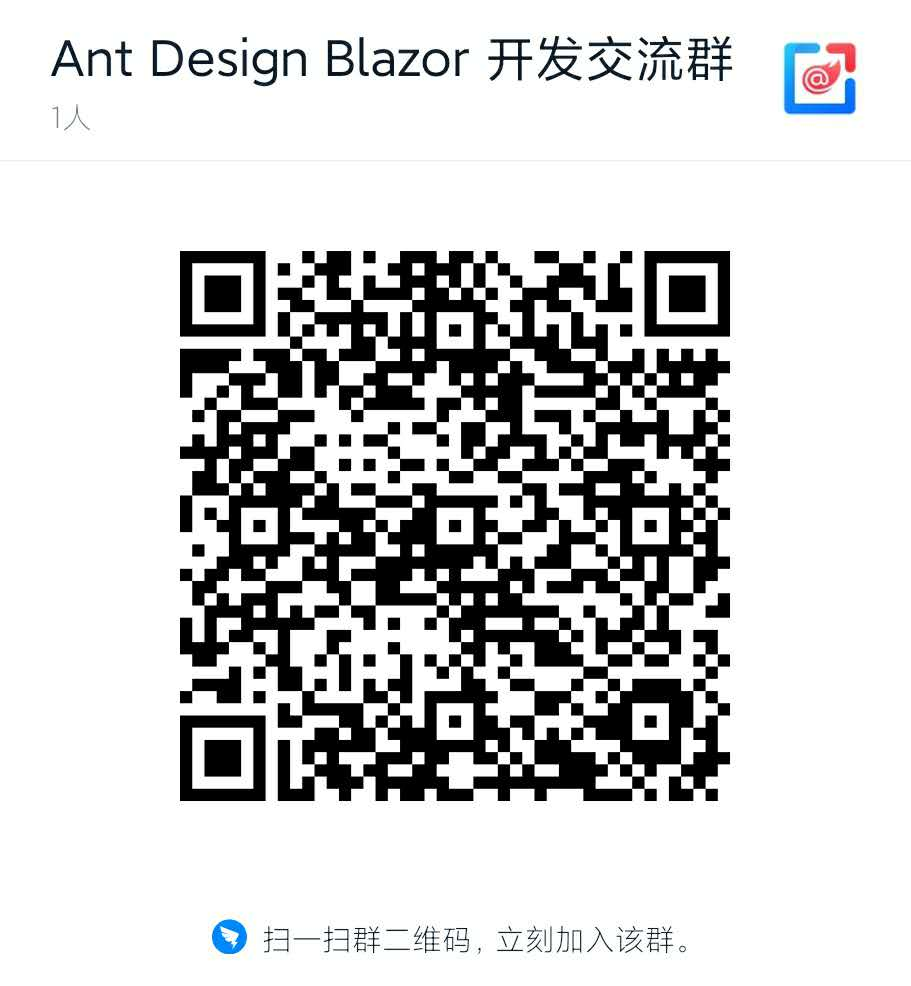
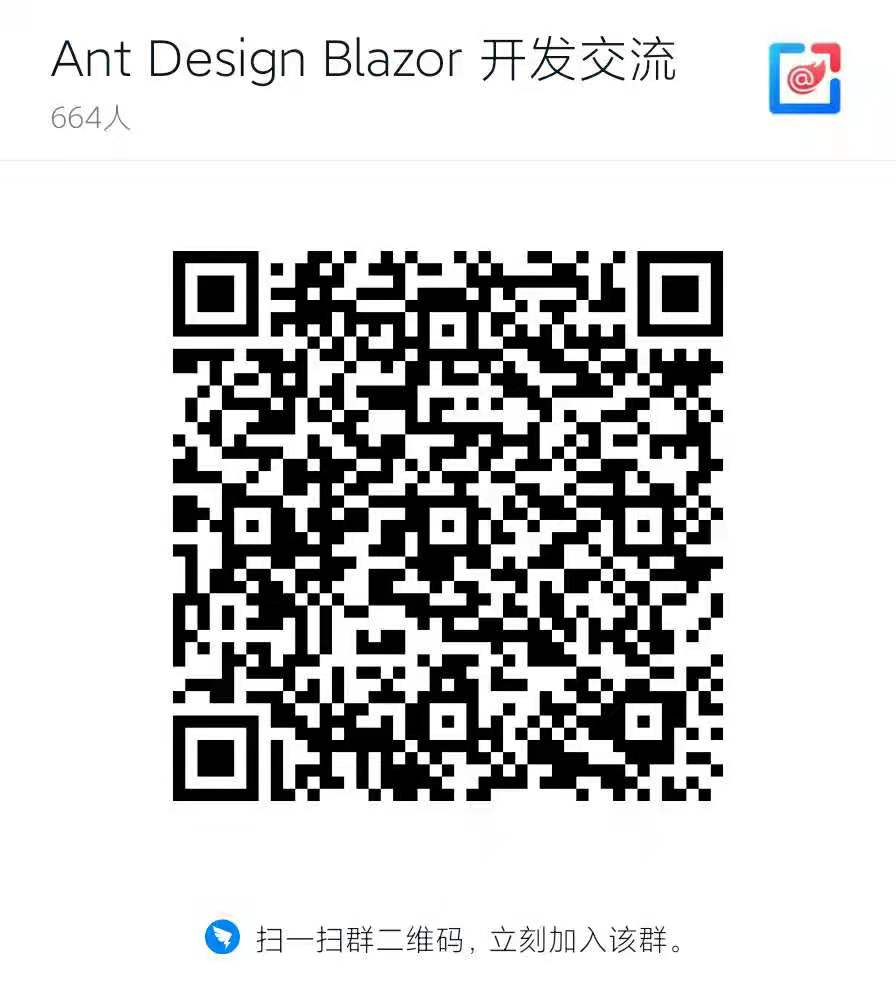
docs: fix dingtalk's broken links (#1330)

diff --git a/README.md b/README.md
@@ -17,7 +17,7 @@ A set of enterprise-class UI components based on Ant Design and Blazor.
 [![codecov](https://img.shields.io/codecov/c/github/ant-design-blazor/ant-design-blazor/master.svg?style=flat-square)](https://codecov.io/gh/ant-design-blazor/ant-design-blazor)
 [![AntDesign](https://img.shields.io/badge/License-MIT-blue?style=flat-square)](https://github.com/ant-design-blazor/ant-design-blazor/blob/master/LICENSE)
 [![Slack Group](https://img.shields.io/badge/Slack-AntBlazor-blue.svg?style=flat-square&logo=slack)](https://join.slack.com/t/AntBlazor/shared_invite/zt-etfaf1ww-AEHRU41B5YYKij7SlHqajA)
[2 lines of base64/hex data omitted]
 [![Discord Server](https://img.shields.io/discord/753358910341251182?color=%237289DA&label=AntBlazor&logo=discord&logoColor=white&style=flat-square)](https://discord.com/invite/jqu3Xeq)
 
 </div>
@@ -212,11 +212,11 @@ If you encounter any problems in the process, feel free to ask for help via foll
 
 - [![Discord Server](https://img.shields.io/discord/753358910341251182?color=%237289DA&label=AntBlazor&logo=discord&logoColor=white&style=flat-square)](https://discord.com/invite/jqu3Xeq)
 
[2 lines of base64/hex data omitted]
 
   <details>
     <summary>Scan QR Code with DingTalk</summary>
-    <img src="https://cdn.jsdelivr.net/gh/ant-design-blazor/ant-design-blazor/  docs/assets/dingtalk.jpg" width="300">
+    <img src="https://cdn.jsdelivr.net/gh/ant-design-blazor/ant-design-blazor/docs/assets/dingtalk.jpg" width="300">
   </details>
 
 ## Code of Conduct

diff --git a/README-zh_CN.md b/README-zh_CN.md
@@ -17,7 +17,7 @@
 [![codecov](https://img.shields.io/codecov/c/github/ant-design-blazor/ant-design-blazor/master.svg?style=flat-square)](https://codecov.io/gh/ant-design-blazor/ant-design-blazor)
 [![AntDesign](https://img.shields.io/badge/License-MIT-blue?style=flat-square)](https://github.com/ant-design-blazor/ant-design-blazor/blob/master/LICENSE)
 [![Slack Group](https://img.shields.io/badge/Slack-AntBlazor-blue.svg?style=flat-square&logo=slack)](https://join.slack.com/t/AntBlazor/shared_invite/zt-etfaf1ww-AEHRU41B5YYKij7SlHqajA)
[2 lines of base64/hex data omitted]
 [![Discord Server](https://img.shields.io/discord/753358910341251182?color=%237289DA&label=AntBlazor&logo=discord&logoColor=white&style=flat-square)](https://discord.com/invite/jqu3Xeq)
 
 </div>
@@ -206,7 +206,7 @@ WebAssembly 静态托管页面示例
 
 - [![Discord Server](https://img.shields.io/discord/753358910341251182?color=%237289DA&label=AntBlazor&logo=discord&logoColor=white&style=flat-square)](https://discord.com/invite/jqu3Xeq) (英文)
 
[2 lines of base64/hex data omitted]
 
   <img src="https://cdn.jsdelivr.net/gh/ant-design-blazor/ant-design-blazor/docs/assets/dingtalk.jpg" width="200">
 

diff --git a/docs/introduce.zh-CN.md b/docs/introduce.zh-CN.md
@@ -178,12 +178,10 @@ title: Ant Design of Blazor
 如果您在使用的过程中碰到问题，可以通过以下途径寻求帮助，同时我们也鼓励资深用户通过下面的途径给新人提供帮助。
 
 - [![Slack 群](https://img.shields.io/badge/Slack-AntBlazor-blue.svg?style=flat-square&logo=slack)](https://join.slack.com/t/AntBlazor/shared_invite/zt-etfaf1ww-AEHRU41B5YYKij7SlHqajA) (英文)
[2 lines of base64/hex data omitted]
 
-<details>
-  <summary>点击扫描钉钉二维码</summary>
   <img src="https://cdn.jsdelivr.net/gh/ant-design-blazor/ant-design-blazor/docs/assets/dingtalk.jpg" width="300">
-</details>
+
 
 ## ☀ 授权协议
 

diff --git a/docs/introduce.en-US.md b/docs/introduce.en-US.md
@@ -181,13 +181,7 @@ If you would like to contribute, feel free to create a [Pull Request](https://gi
 
 If you encounter any problems in the process, feel free to ask for help via following channels. We also encourage experienced users to help newcomers.
 
-- [![Slack Group](https://img.shields.io/badge/Slack-AntBlazor-blue.svg?style=flat-square&logo=slack)](https://join.slack.com/t/AntBlazor/shared_invite/zt-etfaf1ww-AEHRU41B5YYKij7SlHqajA) (Chinese & English)
-- [![Ding Talk Group](https://img.shields.io/badge/DingTalk-AntBlazor-blue.svg?style=flat-square)](https://h5.dingtalk.com/circle/healthCheckin.html?corpId=dingccf128388c3ea40eda055e4784d35b88&2f46=c9b80ba5&origin=11) (Chinese)
-
-<details>
-  <summary>Scan QR Code with DingTalk</summary>
-  <img src="https://cdn.jsdelivr.net/gh/ant-design-blazor/ant-design-blazor//docs/assets/dingtalk.jpg" width="300">
-</details>
+- [![Slack Group](https://img.shields.io/badge/Slack-AntBlazor-blue.svg?style=flat-square&logo=slack)](https://join.slack.com/t/AntBlazor/shared_invite/zt-etfaf1ww-AEHRU41B5YYKij7SlHqajA) 
 
 ## ☀ License
 
